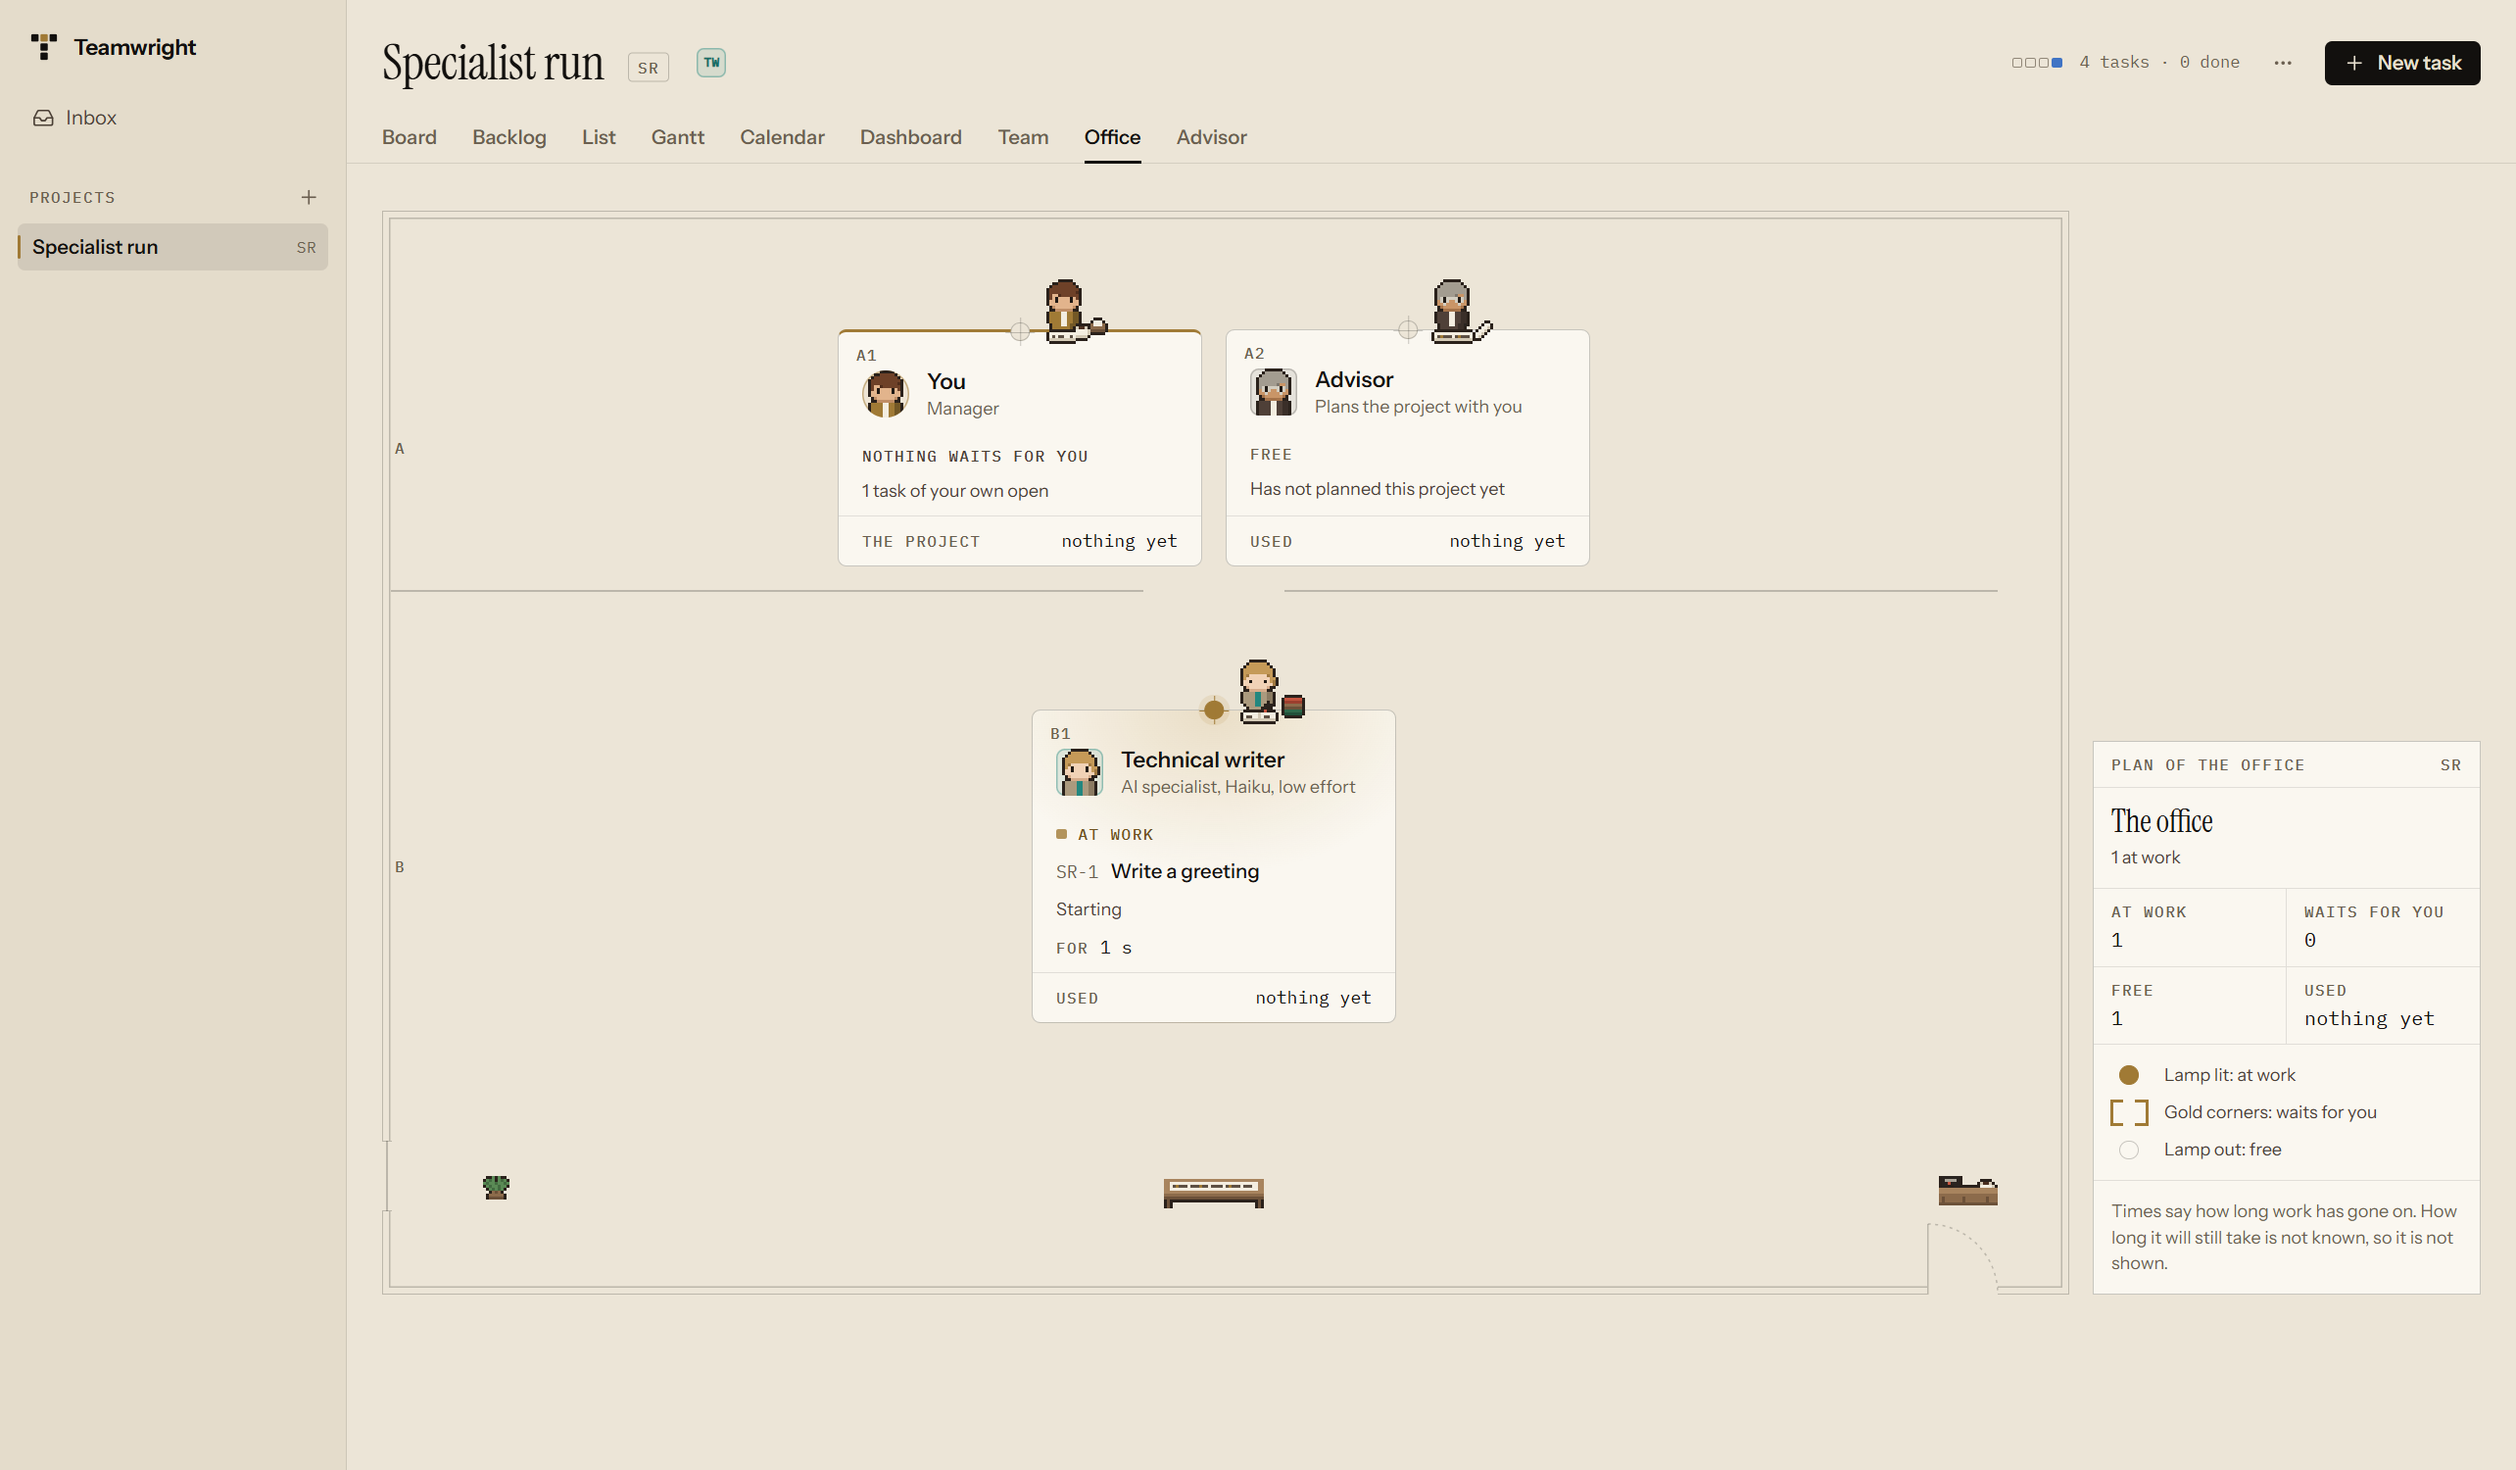
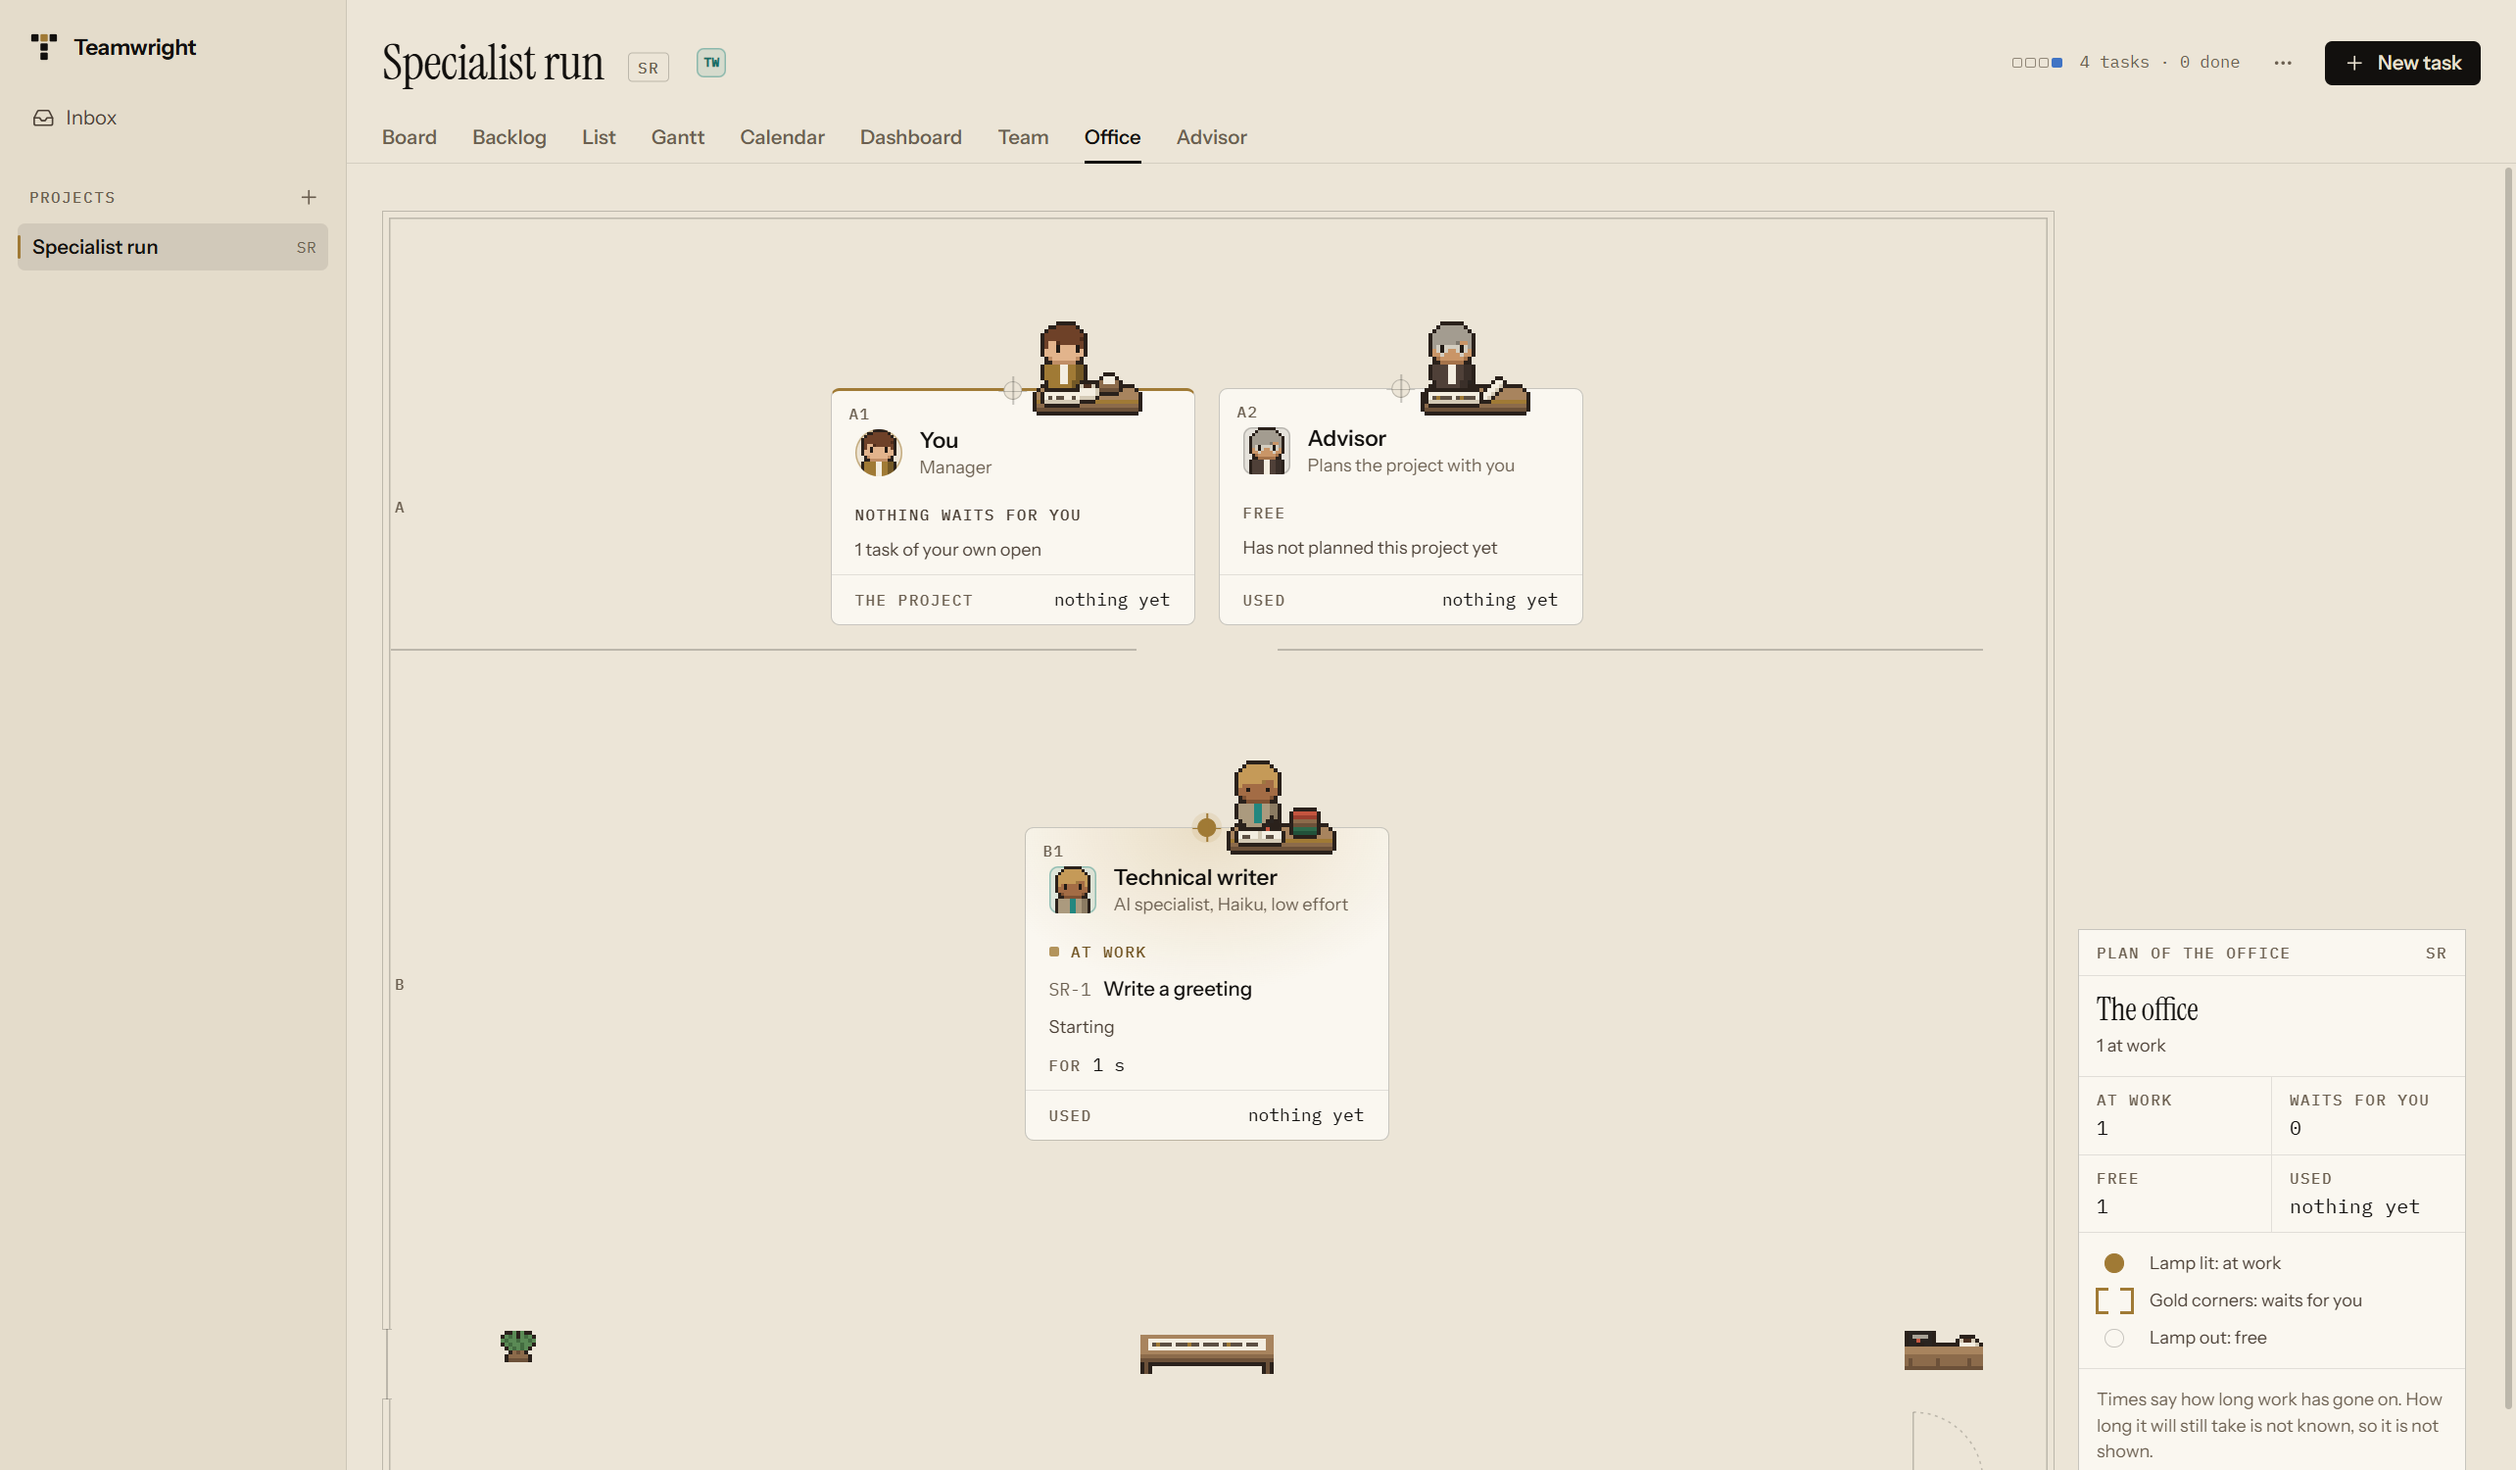
docs(screenshots): show the people of the office at their desks
The pictures showed the first, smaller people sitting on the edge of a
card. They are taken again from the built program: the people are larger
in a wide window and sit at desks of their own. The pictures of a real
specialist are from a new run, in which it works at its desk under the
lit lamp.

The roadmap says what was seen in the built program and what only in a
browser.

diff --git a/docs/product/roadmap.md b/docs/product/roadmap.md
@@ -116,9 +116,9 @@ Several specialists working together with the manager in the loop.
   default, at a desk of its own, larger in a wide window, who works, waits
   with a hand raised, does small things when free and walks the aisles to
   a shared place; a portrait at the bench and in the Team view.
-  The first, smaller people were seen in the built program with a real
-  specialist at work; the larger ones, and walking, waiting and the small
-  things, in a browser on demo data only
+  Seen in the built program with a real specialist at work at its desk;
+  walking, waiting and the small things were seen in a browser on demo
+  data only
   ([decision 0019](../decisions/0019-people-in-the-office.md))
 - 🚧 Dashboards: usage per teammate, plan limits, workload by status. A
   Dashboard view of a project: where it stands in sentences worked out by
